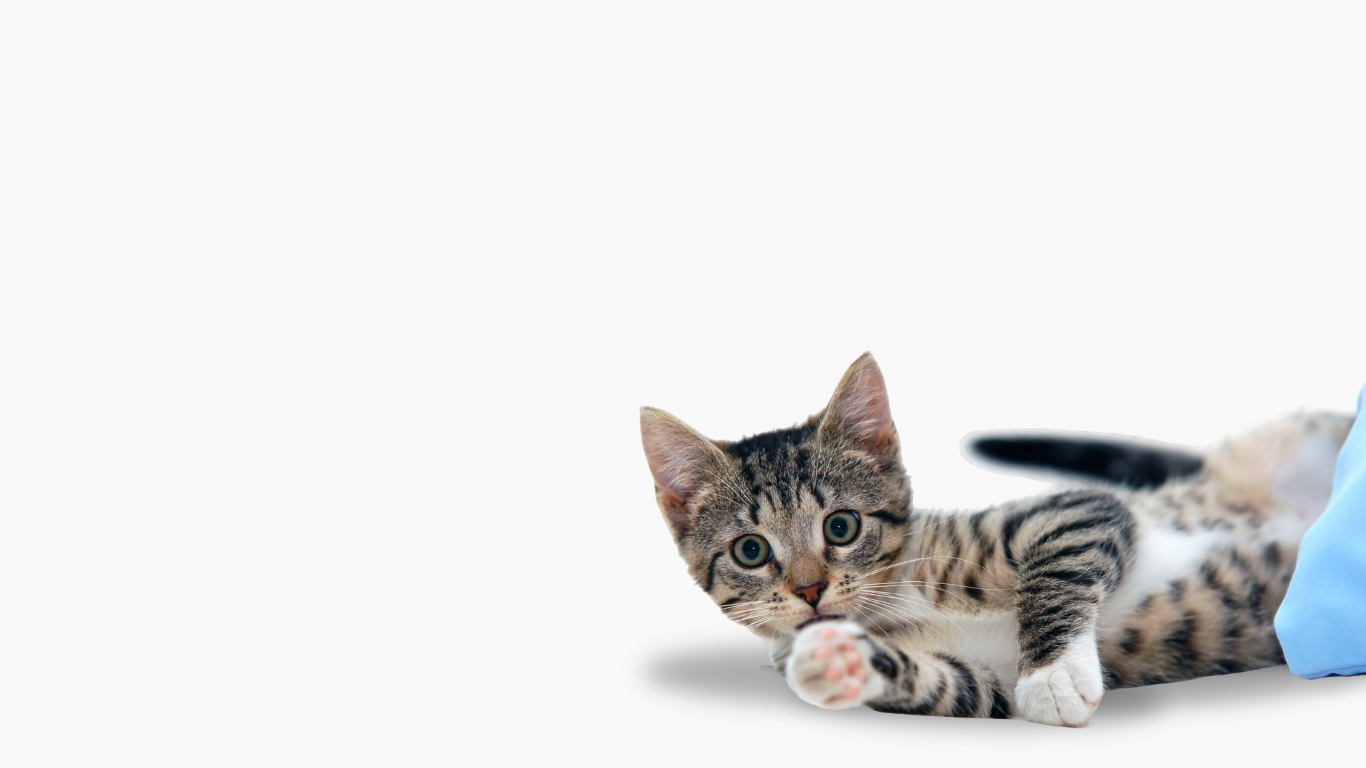
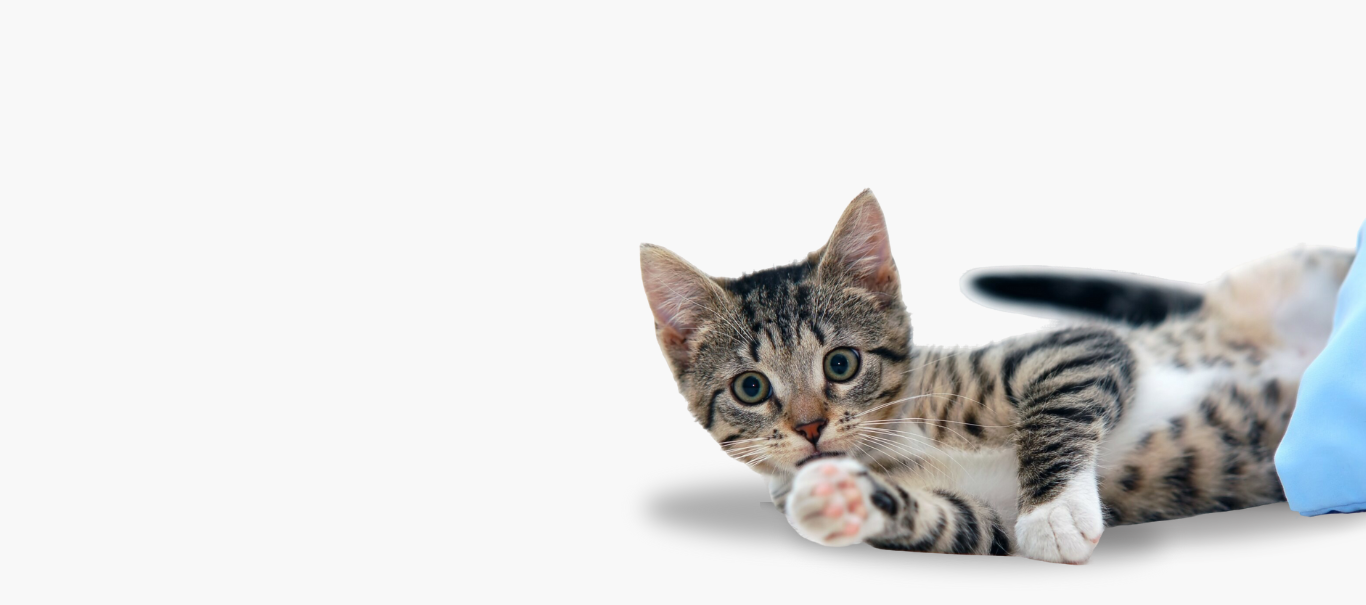
1609

Changed region(s): [[0.4612, 0.2975, 1.0, 0.9521]]

diff --git a/css/css/adocaoo.css b/css/css/adocaoo.css
@@ -1,0 +1,83 @@
+@font-face {
+    font-family: 'league';
+    src: url("../font/league/LeagueSpartan-Regular.ttf");
+}
+@font-face {
+    font-family:'baloo';
+    src:url("../font/baloo/Baloo-Regular.ttf");
+}
+@font-face {
+    font-family:'oswald';
+    src:url("../font/oswald/Oswald-Regular.ttf");
+}
+@font-face {
+    font-family: 'poppins';
+    src: url("../font/poppins/Poppins-Regular.ttf");
+}
+/* Define o estilo do container para que a imagem cubra toda a seção */
+#full-background {
+    background-image: url('img/adocao.png');
+    background-repeat: no-repeat;
+    background-size: cover; /* Faz a imagem cobrir todo o container */
+    background-position: center; /* Centraliza a imagem */
+    height: 100vh; /* Define a altura do container para ocupar a altura total da janela */
+    min-height: 100vh; /* Garante que a altura mínima seja 100% da tela */
+    width: 100vw; /* Define a largura do container para ocupar a largura total da janela */
+    position: relative;
+    margin-top: -1%;
+   
+}
+.container{
+    margin-bottom: 10%;
+}
+
+body, html {
+    margin: 0;
+    padding: 0;
+    height: 100%;
+    width: 100%;
+    overflow-x: hidden; /* Evita rolagem horizontal */
+}
+
+section {
+    width: 100%;
+    height: 100vh; /* Assegura que a seção ocupe a altura total da janela */
+    display: flex;
+    justify-content: center;
+    align-items: center;
+}
+.title{
+    font-family: poppins;
+    font-size: 52px;
+    font-weight: 900;
+}
+.destaque{
+    color: #52bacb;
+
+}
+.subtitle{
+    font-family: poppins;
+    font-weight: 00;
+}
+.btn-primary{
+    color: white;
+    background-color: #52bacb;
+    font-family: baloo;
+    border: none;
+    margin-top: 1%;
+    border-radius: 20px;
+    padding: 5px 17px;
+    
+
+}
+.btn-primary:hover{
+    background-color: #469eac;
+}
+
+/* seção 2 */
+
+.subtitle2{
+    margin-bottom: 145%;
+    color: #444444;
+    text-align: center;
+}

diff --git a/js/scroll_adocao.js b/js/scroll_adocao.js
@@ -1,0 +1,3 @@
+function scrollToSection() {
+    document.getElementById('section2').scrollIntoView({ behavior: 'smooth' });
+}

diff --git a/conteudo/adocao.php b/conteudo/adocao.php
@@ -1,22 +1,55 @@
+<?php
+include("../inc/header.php");
+?>
 <!DOCTYPE html>
 <html lang="en">
 
 <head>
     <meta charset="UTF-8">
     <meta name="viewport" content="width=device-width, initial-scale=1.0">
-    <link rel="stylesheet" href="../css/css/adocao.css">
+    <link rel="stylesheet" href="../css/bootstrap/bootstrap.min.css">
+    <link rel="stylesheet" href="../css/css/adocaoo.css">
+    <link rel="stylesheet" href="../css/css/whatsapp.css">
     <link rel="stylesheet" href="https://cdnjs.cloudflare.com/ajax/libs/font-awesome/6.4.0/css/all.css">
+    <link rel="stylesheet" href="../css/swiper/swiper-bundle.min.css">
+    <link rel="stylesheet" href="https://cdn.jsdelivr.net/npm/swiper@11/swiper-bundle.min.css" />
     <title>Suporte de Adoção</title>
 </head>
 
 <body>
-    <section>
+    <section id="full-background" class="w-100 h-100">
         <div class="container">
-            <h1>oooi</h1>
+            <h1 class="title">Adote com amor,<br>
+                suporte de <span class="destaque">adoção</span><br>
+                animal.
+            </h1>
+            <p class="subtitle">Apoio e carinho na sua jornada de adoção</p>
+            <button onclick="scrollToSection()" type="submit"  class="btn btn-primary">Saiba Mais</button>
         </div>
     </section>
+    <section id="section2">
+        <div class="parte_2">
+            <h4 class="subtitle2">Facilitando a Adoção:<br> 
+            O Suporte da Nossa Veterinária</h4>
+        </div>
+
+    </section>
+
+     <!-- Ícone do WhatsApp -->
+     <div class="whatsapp-icon">
+        <a href="https://wa.me/5512991445347?text=Olá!%20Tenho%20interesse%20sobre%20a%20adoção.%20Poderia%20me%20ajudar%20com%20mais%20informações?"
+            target="_blank" title="Fale conosco no WhatsApp">
+            <i class="fab fa-whatsapp"></i>
+        </a>
+    </div>
 
 
 </body>
+
+<!--scroll JS-->
+<script src="../js/scroll_adocao.js"></script>
+<!--swiper JS -->
+<script src="../js/swiper/swiper-bundle.min.js"></script>
+
 
 </html>
